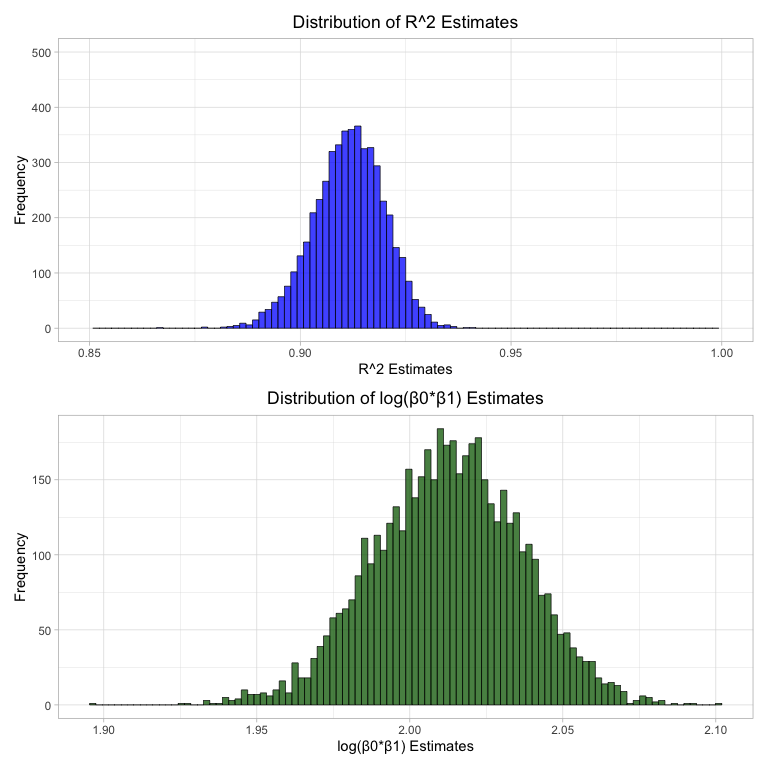
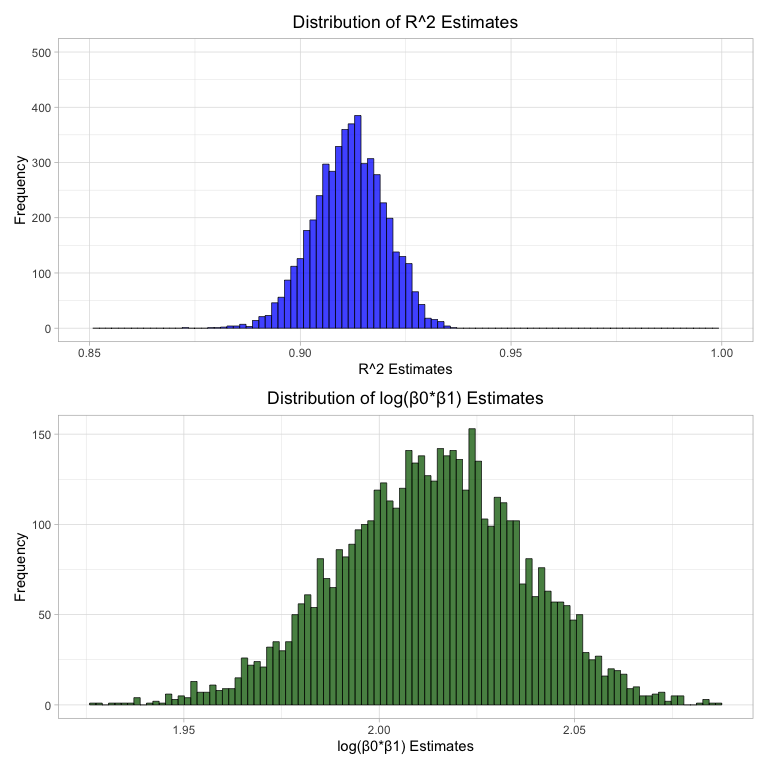
save

diff --git a/p8105_hw6_ez2384.md b/p8105_hw6_ez2384.md
@@ -103,8 +103,8 @@ p8105_hw6_ez2384
 
 | 95% CI bounds for R2 |  Value |
 |:---------------------|-------:|
-| lower bound          | 0.8937 |
-| upper bound          | 0.9269 |
+| lower bound          | 0.8946 |
+| upper bound          | 0.9273 |
 
 ``` r
   quantile(bootstrap_results$log_betas, probs = c(.025, .975)) %>% 
@@ -118,8 +118,8 @@ p8105_hw6_ez2384
 
 | 95% CI bounds for log(ß0\*ß1) |  Value |
 |:------------------------------|-------:|
-| lower bound                   | 1.9641 |
-| upper bound                   | 2.0583 |
+| lower bound                   | 1.9657 |
+| upper bound                   | 2.0576 |
 
 ### Problem 2
 
@@ -392,7 +392,7 @@ p8105_hw6_ez2384
     ## Multiple R-squared:  0.7115, Adjusted R-squared:  0.7107 
     ## F-statistic: 970.6 on 11 and 4330 DF,  p-value: < 2.2e-16
 
-##### Comments on Building Models
+##### Building and Commentting on Reduced Model
 
 - Initial Full Model includes all predictors.  
 - Backward selection was applied using `stepAIC()` to remove predictors
@@ -405,7 +405,12 @@ p8105_hw6_ez2384
     - `blength`, `bhead`, `gaweeks`, `wtgain`, `fincome`, `mheight`,
       `parity`  
   - categorical variables
-    - `babysex`(ref=“Female”), `mrace`(ref=“1”)
+    - `babysex`(ref=“Female”), `mrace`(ref=“1”)  
+- The reduced model has an adjusted R^2 of 0.7107 which implies a pretty
+  good fit and about 71% of the variance in the birthweight can be
+  explained by the reduced model. The residual error of 275.5 grams
+  suggests the typical deviation of observed birthweights from those
+  predicted by the model is 275.5 grams.
 
 ``` r
   model_1 = lm(bwt ~ blength + gaweeks, data = birthweight_data)
